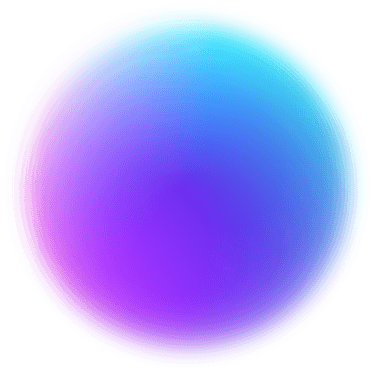
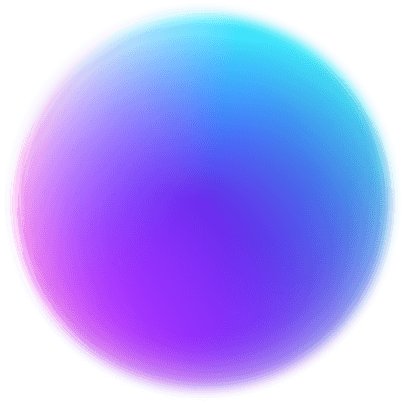
style: 修复显示效果

Changed region(s): [[0.0293, 0.0, 0.9947, 0.968], [0.4388, 0.1467, 0.4681, 0.176]]

diff --git a/src/App.vue b/src/App.vue
@@ -25,7 +25,7 @@ export default {
 <style scoped lang="scss">
 @keyframes floatBall {
   0% {
-    transform: translate3d(-10%,0,-10px);
+    transform: translate3d(-10%,0,-10px) scale(.9);
   }
   20% {
    transform: translate3d(-12%,-15%, -10px); 
@@ -56,7 +56,7 @@ export default {
 }
 .u-app-bg {
   width: 1080px;
-  height: 1620px;
+  height: 1920px;
   position: absolute;
   top: 0;
   left: 0;
@@ -74,8 +74,8 @@ export default {
     position: absolute;
   }
   .u-ball1 {
-    top: 20px;
-    left: 400px;
+    top: 60px;
+    left: 390px;
     width: 217px;
     height: 190px;
     animation: floatBall 4s linear alternate infinite;
@@ -83,50 +83,50 @@ export default {
   .u-ball2 {
     width: 278px;
     height: 278px;
-    top: 195px;
-    left: 580px;
+    top: 240px;
+    left: 470px;
     animation: floatBall 6s linear alternate infinite;
   }
   .u-ball3 {
     width: 175px;
     height: 286px;
     right: 0;
-    top: 360px;
+    top: 510px;
     animation: scaleBall 3s linear alternate infinite;
   }
   .u-ball4 {
     width: 539px;
     height: 539px;
-    left: 125px;
-    top: 420px;
+    left: 110px;
+    top: 520px;
     animation: floatBall 8s linear alternate infinite;
   }
   .u-ball5 {
     width: 248px;
     height: 248px;
-    top: 550px;
-    left: 585px;
+    top: 730px;
+    left: 580px;
     animation: floatBall 5s linear alternate infinite;
   }
   .u-ball6 {
     width: 242px;
     height: 371px;
     left: 0;
-    top: 915px;
+    top: 1090px;
     animation: scaleBall 7s linear alternate infinite;
   }
   .u-ball7 {
     width: 311px;
     height: 304px;
-    top: 1080px;
-    left: 396px;
+    top: 1210px;
+    left: 424px;
     animation: floatBall 4s linear alternate infinite;
   }
   .u-ball8 {
     width: 193px;
     height: 193px;
-    right: 175px;
-    bottom: 30px;
+    right: 183px;
+    bottom: 78px;
     animation: floatBall 3s linear alternate infinite;
   }
 }
@@ -134,7 +134,7 @@ export default {
 <style lang="scss">
 html, body {
   width: 1080px;
-  height: 1620px;
+  height: 1920px;
   margin: auto;
 }
 #app {
@@ -144,7 +144,7 @@ html, body {
   -moz-osx-font-smoothing: grayscale;
   text-align: center;
   width: 1080px;
-  height: 1620px;
+  height: 1920px;
   position: relative;
   overflow: hidden;
   .c-app-container {

diff --git a/src/components/Index.vue b/src/components/Index.vue
@@ -158,44 +158,44 @@ export default {
   }
   .m-photo {
     background-image: url('../assets/p1-ball1.png');
-    width: 376px;
-    height: 375px;
-    font-size: 40px;
+    width: 405px;
+    height: 404px;
+    font-size: 49px;
     right: 140px;
-    top: 295px;
+    top: 365px;
     .icon {
       background-image: url('../assets/p1-photo.png');
-      width: 124px;
-      height: 97px;
+      width: 144px;
+      height: 114px;
       margin-bottom: 8px;
     }
   }
   .m-face {
     background-image: url('../assets/p1-ball2.png');
-    width: 512px;
-    height: 510px;
-    font-size: 44px;
+    width: 557px;
+    height: 556px;
+    font-size: 54px;
     left: 100px;
-    top: 643px;
+    top: 770px;
     .icon {
       background-image: url('../assets/p1-face.png');
-      width: 160px;
-      height: 160px;
-      margin-bottom: 18px;
+      width: 185px;
+      height: 185px;
+      margin-bottom: 24px;
     }
   }
   .m-cloud {
     background-image: url('../assets/p1-ball3.png');
-    width: 377px;
-    height: 380px;
-    font-size: 40px;
-    right: 170px;
-    bottom: 120px;
+    width: 403px;
+    height: 405px;
+    font-size: 49px;
+    right: 127px;
+    bottom: 170px;
     .icon {
       background-image: url('../assets/p1-cloud.png');
-      width: 97px;
-      height: 97px;
-      margin-bottom: 12px;
+      width: 112px;
+      height: 112px;
+      margin-bottom: 22px;
     }
   }
 }

diff --git a/src/components/Cloud.vue b/src/components/Cloud.vue
@@ -198,7 +198,7 @@ export default {
 .m-back {
   animation: fadeIn .4s;
   font-size: 0;
-  padding: 24px 65px;
+  padding: 80px 30px;
   text-align: justify;
   box-sizing: border-box;
   pointer-events: none;
@@ -210,10 +210,10 @@ export default {
     display: inline-block;
   }
   .u-photo {
-    margin-bottom: 30px;
+    margin-bottom: 35px;
     display: inline-block;
-    width: 290px;
-    height: 290px;
+    width: 322px;
+    height: 322px;
     backface-visibility: hidden;
     position: relative;
     transform-style:preserve-3d;
@@ -231,9 +231,12 @@ export default {
       z-index: 2;
       transition: transform .4s .4s linear;
       img {
-        position: relative;
-        width: 100%;
+        position: absolute;
+        height: 100%;
         display: block;
+        left: 50%;
+        top: 50%;
+        transform: translate(-50%, -50%);
       }
     }
     .u-back {
@@ -276,18 +279,18 @@ export default {
     pointer-events: none;
   }
   .u-qr {
-    margin-top: 123px;
+    margin-top: 133px;
     background-color: white;
     padding: 8px;
     display: inline-block;
     img {
       display: block;
-      width: 290px;
-      height: 290px;
+      width: 322px;
+      height: 322px;
     }
   }
   .u-title {
-    font-size: 41px;
+    font-size: 49px;
     color: #3df6ff;
     font-weight: bold;
   }

diff --git a/src/components/Photo/Take.vue b/src/components/Photo/Take.vue
@@ -106,17 +106,17 @@ export default {
 @keyframes flash {
   0% {
     width: 1080px;
-    height: 1620px;
+    height: 1920px;
     opacity: 0;
   }
   50% {
     width: 1080px;
-    height: 1620px;
+    height: 1920px;
     opacity: 1;
   }
   100% {
     width: 1080px;
-    height: 1620px;
+    height: 1920px;
     opacity: 0;
   }
 }
@@ -155,7 +155,7 @@ export default {
     animation: fadeIn .8s;
   }
   .u-title {
-    margin-top: 65px;
+    margin-top: 120px;
     font-size: 56px;
     color: white;
     .icon {
@@ -177,7 +177,7 @@ export default {
     position: relative;
     width: 1080px;
     height: 1080px;
-    margin: 55px 0 80px;
+    margin: 80px 0 120px;
     .u-inner, .u-border {
       position: absolute;
       left: 0;

diff --git a/src/components/Photo/Save.vue b/src/components/Photo/Save.vue
@@ -111,9 +111,9 @@ export default {
   z-index: 2;
   .m-photo {
     position: relative;
-    margin: 40px auto 25px auto;
+    margin: 90px auto 25px auto;
     width: 980px;
-    height: 1360px;
+    height: 1560px;
     .u-border {
       position: absolute;
       top: 0;
@@ -124,7 +124,7 @@ export default {
       z-index: 1;
       background-color: rgba(0,51,255,1);
       width: 970px;
-      height: 1350px;
+      height: 1550px;
       transition: all .1s;
     }
     .m-container {
@@ -135,7 +135,7 @@ export default {
       bottom: 0;
       z-index: 2;
       width: 955px;
-      height: 1335px;
+      height: 1535px;
       box-sizing: border-box;
       padding: 24px;
       overflow: auto;

diff --git a/src/components/Photo/Share.vue b/src/components/Photo/Share.vue
@@ -112,7 +112,7 @@ export default {
   bottom: 0;
   z-index: 2;
   .m-title {
-    margin: 95px auto 50px auto;
+    margin: 125px auto 70px auto;
     text-align: center;
     .u-title {
       font-size: 72px;
@@ -173,7 +173,7 @@ export default {
       display: inline-block;
       background-color: white;
       padding: 5px;
-      margin: 50px auto 20px;
+      margin: 90px auto 50px;
       img {
         width: 100%;
         height: 100%;
@@ -203,7 +203,7 @@ export default {
   }
   .m-btn-group {
     font-size: 0;
-    margin-top: 30px;
+    margin-top: 70px;
     .u-btn {
       display: inline-block;
       width: 298px;

diff --git a/src/components/Face.vue b/src/components/Face.vue
@@ -177,7 +177,7 @@ export default {
     position: absolute;
     left: 0;
     right: 0;
-    top: 370px;
+    top: 470px;
     width: 600px;
     height: 600px;
     margin-left: auto;
@@ -229,7 +229,7 @@ export default {
     font-size: 0;
     position: absolute;
     z-index: 3;
-    top: 1300px;
+    top: 1500px;
     left: 0;
     right: 0;
     text-align: center;

diff --git a/src/components/Launch.vue b/src/components/Launch.vue
@@ -74,7 +74,7 @@ export default {
   display: block;
   text-align: center;  
   color: white;
-  transform: translate3d(0, 595px, 0);
+  transform: translate3d(0, 695px, 0);
   animation: fadeIn .8s;
   .u-title {
     font-size: 94px;
